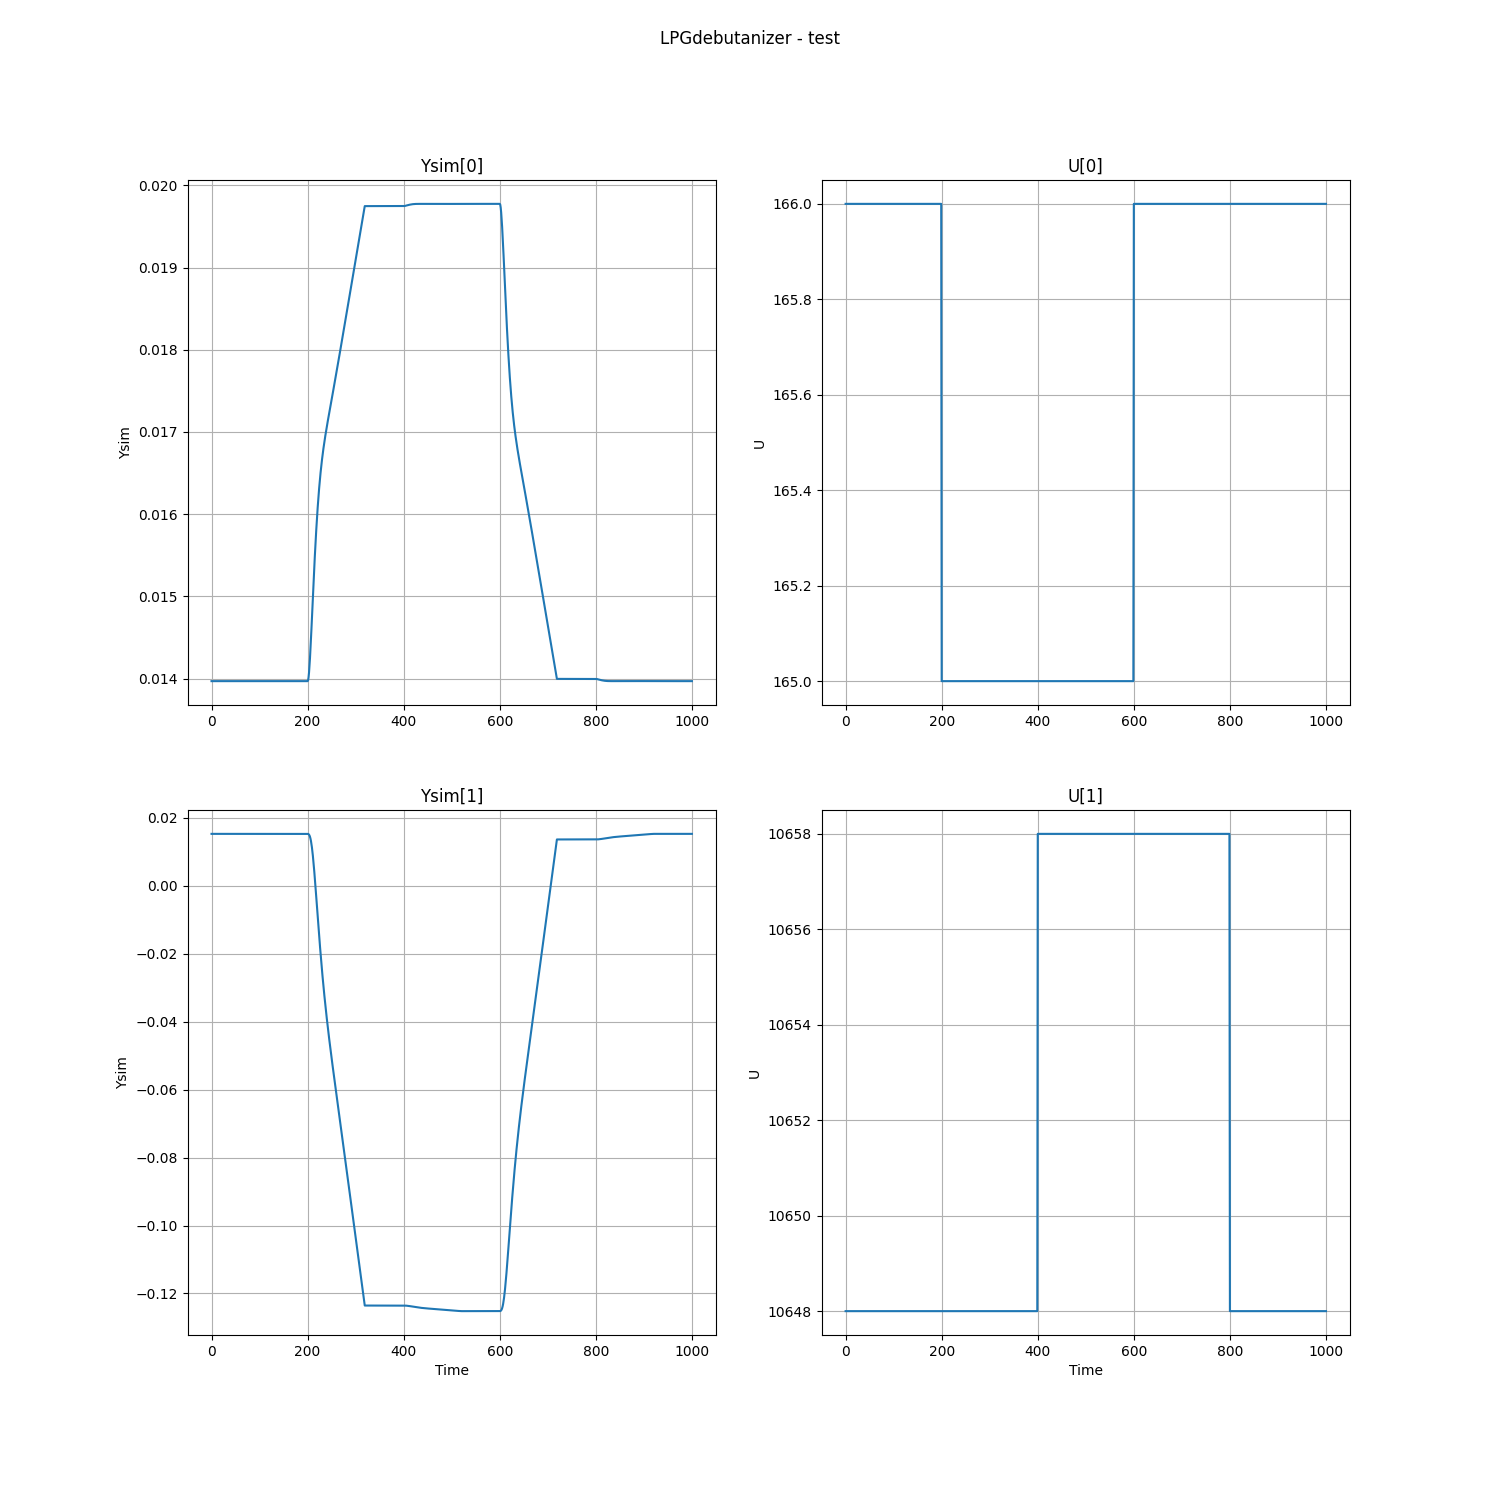
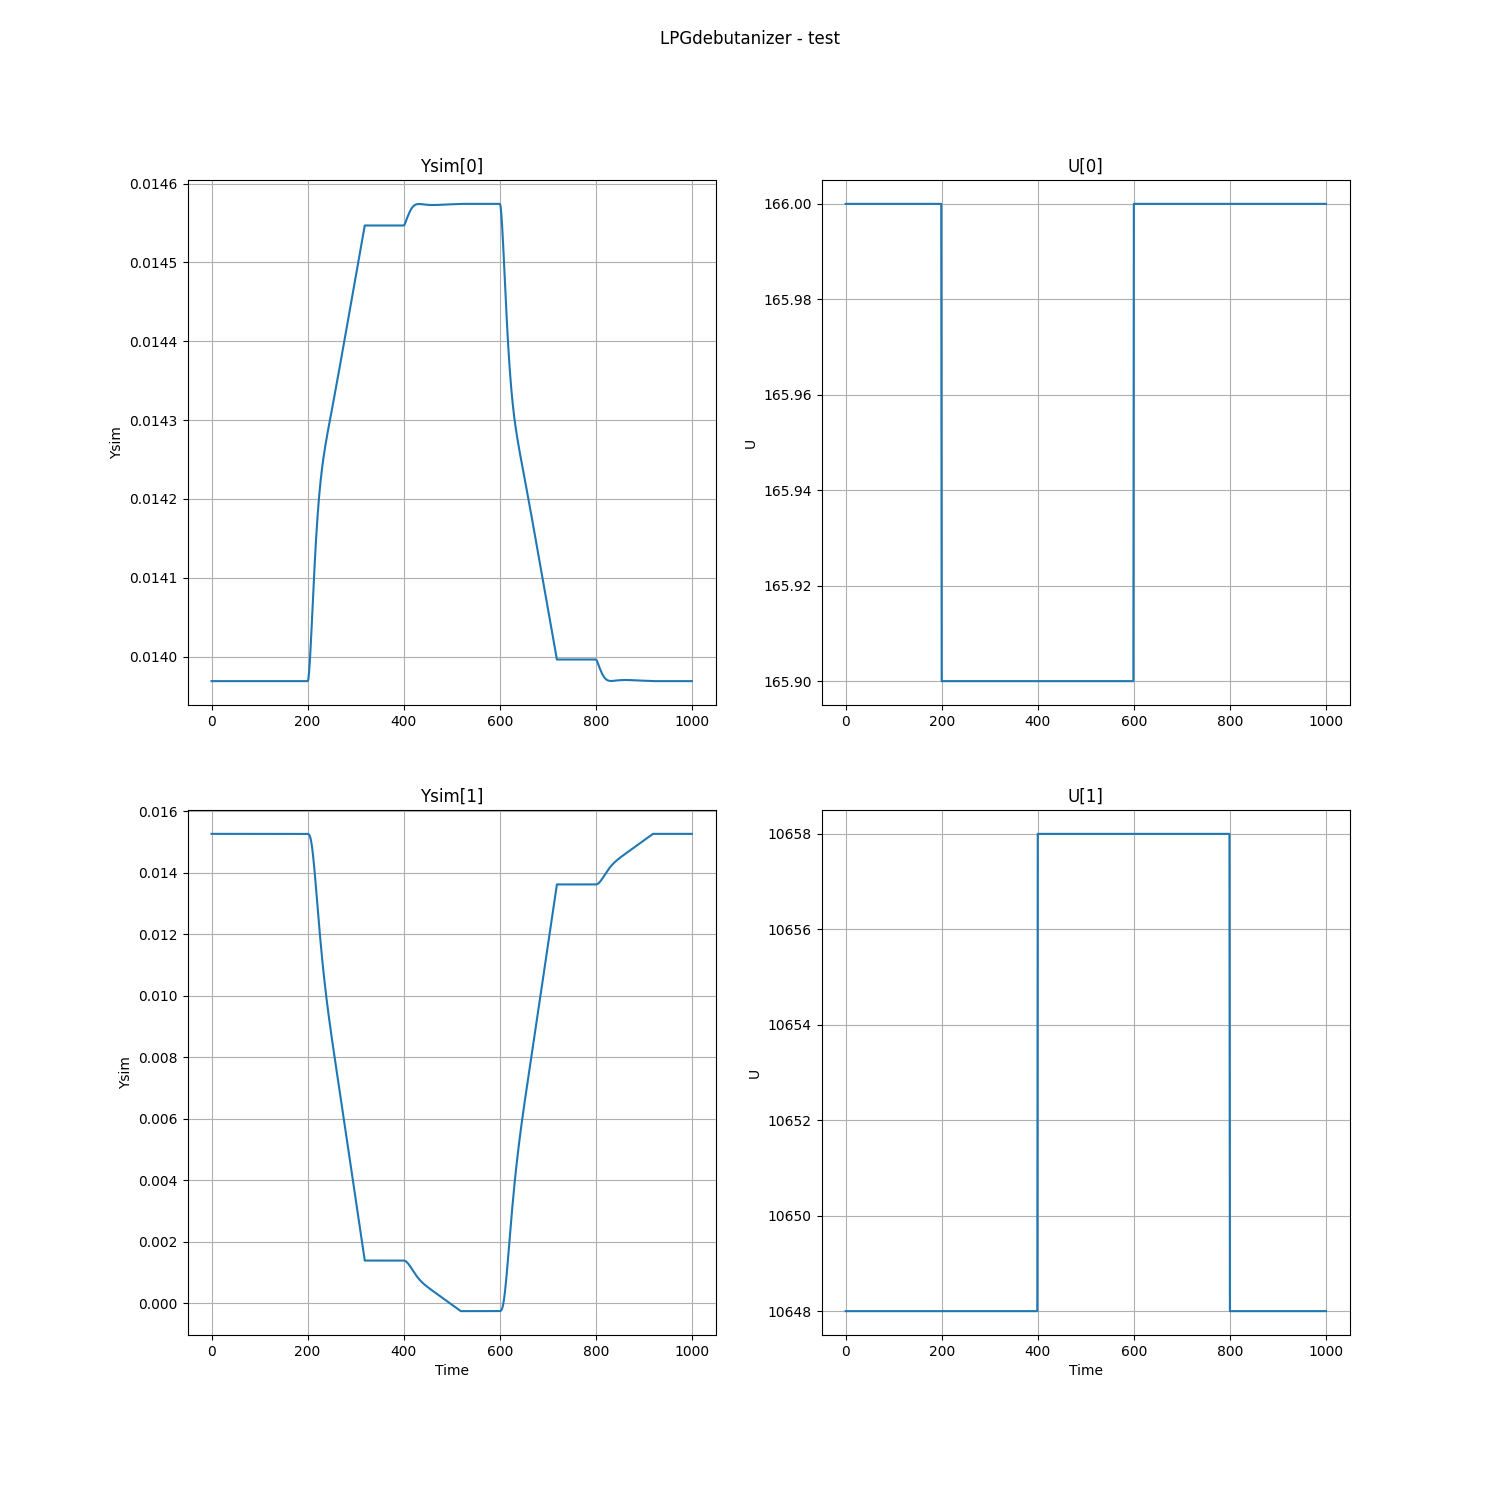
test is weird

diff --git a/01-LPGdebutanizerSimTest.py b/01-LPGdebutanizerSimTest.py
@@ -23,8 +23,8 @@ plot_step_responses(Gmstep, nsim, T, plot_max_length=120, fig_name='LPGdebutaniz
 # Set Simulation test
 tsimTest = np.linspace(0, nsimTest * T, nsimTest + 1)  # Simulation Time vector
 Utest = np.tile(u0, (len(tsimTest), 1)).T.astype(float)  # Initialisation of the input matrix
-Utest[:, 200:] = np.array([165., 10648.]).reshape(-1, 1)  # Step change in inputs
-Utest[:, 400:] = np.array([165., 10658.]).reshape(-1, 1)  # Step change in inputs
+Utest[:, 200:] = np.array([165.9, 10648.]).reshape(-1, 1)  # Step change in inputs
+Utest[:, 400:] = np.array([165.9, 10658.]).reshape(-1, 1)  # Step change in inputs
 Utest[:, 600:] = np.array([166., 10658.]).reshape(-1, 1)  # Step change in inputs
 Utest[:, 800:] = np.array([166., 10648.]).reshape(-1, 1)  # Step change in inputs
 
